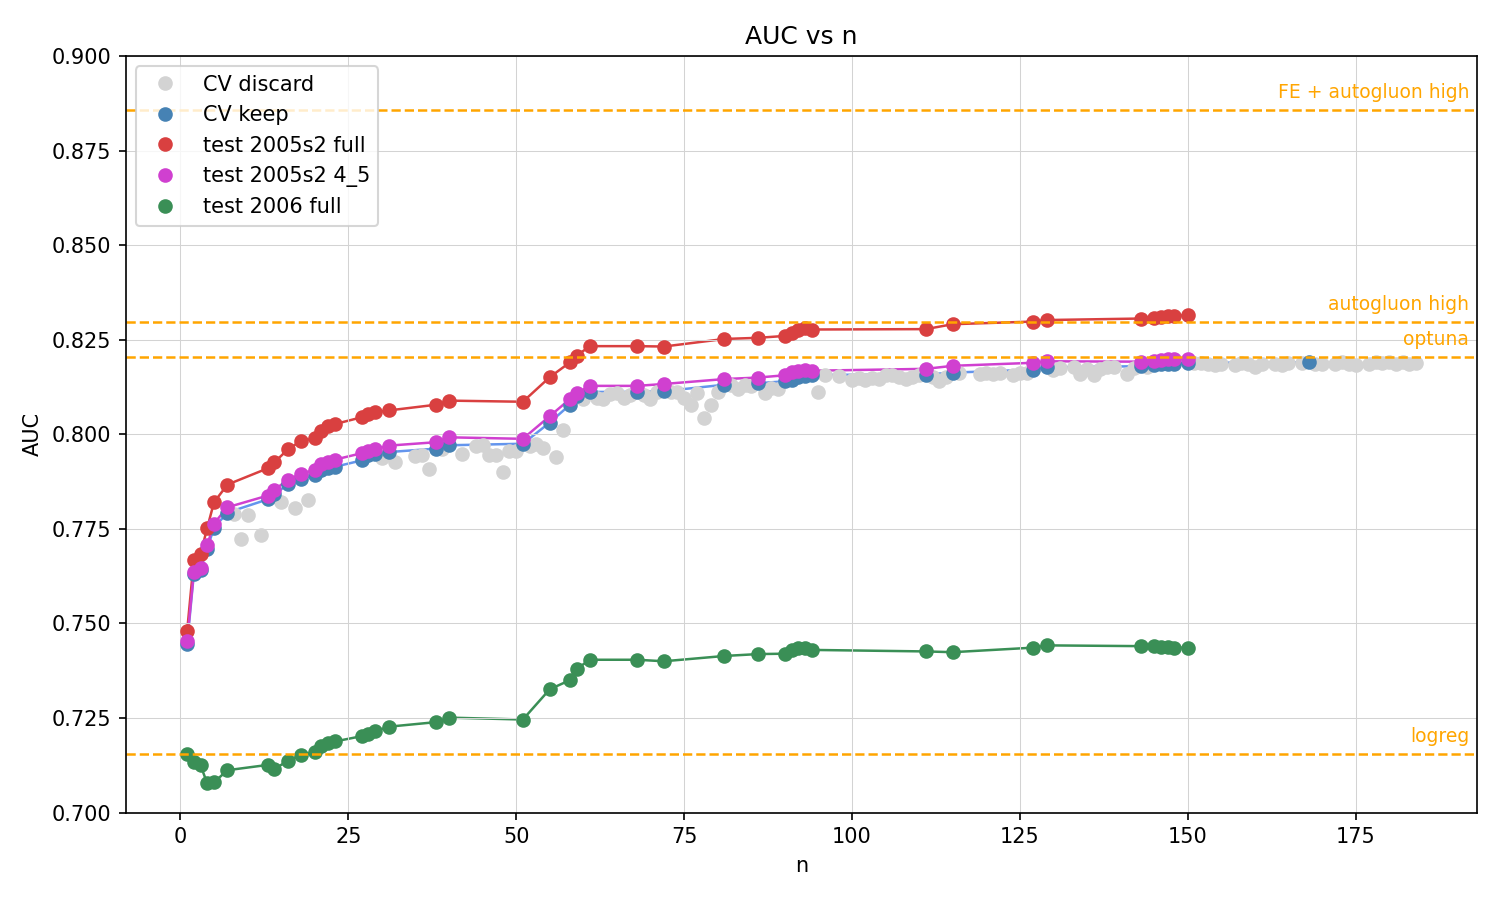
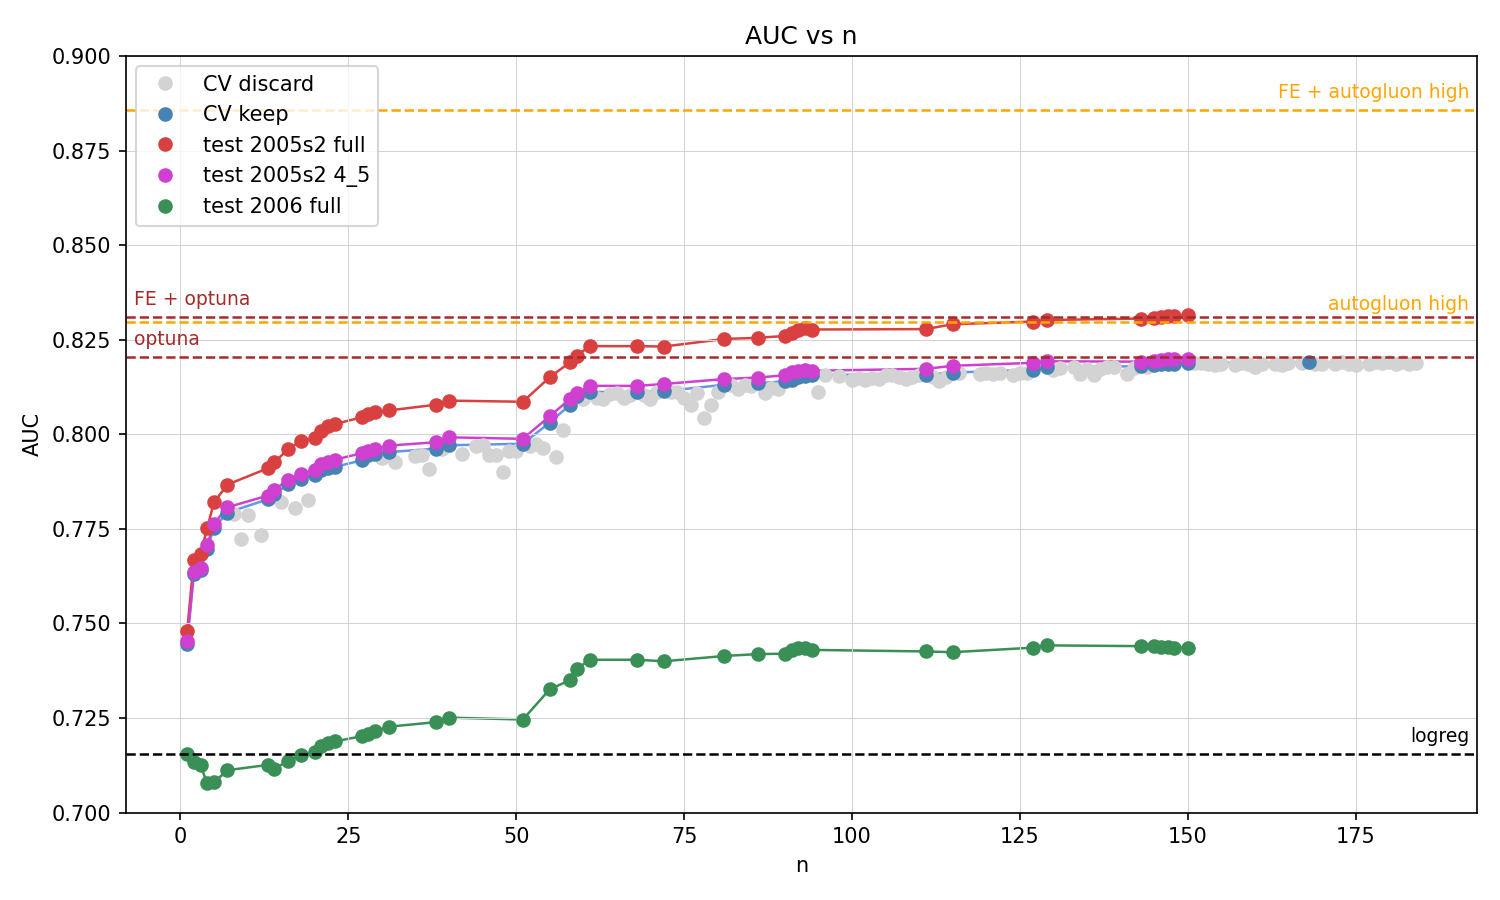
results

Changed region(s): [[0.092, 0.3111, 0.1533, 0.4044], [0.92, 0.3422, 0.9813, 0.4044], [0.92, 0.8089, 0.9813, 0.84]]

diff --git a/analysis/a06-optuna/train-op-FE.py b/analysis/a06-optuna/train-op-FE.py
@@ -1,0 +1,110 @@
+# pip install optuna optuna-integration[xgboost]
+
+import time
+import warnings
+import optuna
+import pandas as pd
+import xgboost as xgb
+from pathlib import Path
+from optuna.integration import XGBoostPruningCallback
+from sklearn.metrics import roc_auc_score
+from sklearn.model_selection import StratifiedKFold
+import numpy as np
+
+
+data_dir = Path(__file__).parent / "../../data-cache"
+train = pd.read_csv(f"{data_dir}/2005-slice1-100k.csv")
+
+cat_cols = ["Month", "DayofMonth", "DayOfWeek", "UniqueCarrier", "Origin", "Dest"]
+num_cols = ["DepTime", "Distance"]
+target   = "dep_delayed_15min"
+
+
+cat_levels = {col: sorted(train[col].unique()) for col in cat_cols}
+
+def prepare(df):
+    X = df[num_cols + cat_cols].copy()
+    # Convert HHMM to minutes since midnight
+    X["DepMinutes"] = (df["DepTime"] // 100) * 60 + (df["DepTime"] % 100)
+    X["DepMinuteOfHour"] = df["DepTime"] % 100
+    X["DepTime_sin"] = np.sin(2 * np.pi * X["DepMinutes"] / 1440)
+    X["DepTime_cos"] = np.cos(2 * np.pi * X["DepMinutes"] / 1440)
+    X["LogDistance"] = np.log1p(df["Distance"])
+    X["DepHour"] = pd.Categorical((df["DepTime"] // 100).clip(0, 23))
+    X["DistBin"] = pd.Categorical(pd.cut(df["Distance"], bins=[0, 300, 700, 1500, 5000], labels=["short", "medium", "long", "xlong"]))
+    X["DepTimeFloat"] = df["DepTime"] / 100.0
+    for col in cat_cols:
+        X[col] = pd.Categorical(
+            X[col].where(X[col].isin(cat_levels[col])),
+            categories=cat_levels[col],
+        )
+    y = (df[target] == "Y").astype(int).to_numpy()
+    return X, y
+
+
+X_train, y_train = prepare(train)
+
+
+cv = StratifiedKFold(n_splits=5, shuffle=True, random_state=42)
+
+def objective(trial):
+    params = {
+        "n_estimators":      trial.suggest_int("n_estimators", 100, 1500),
+        "max_depth":         trial.suggest_int("max_depth", 5, 25),
+        "learning_rate":     trial.suggest_float("learning_rate", 1e-3, 0.3, log=True),
+        "subsample":         trial.suggest_float("subsample", 0.5, 1.0),
+        "colsample_bytree":  trial.suggest_float("colsample_bytree", 0.4, 1.0),
+        "min_child_weight":  trial.suggest_int("min_child_weight", 1, 10),
+        "gamma":             trial.suggest_float("gamma", 0.0, 0.15),
+        "reg_alpha":         trial.suggest_float("reg_alpha", 1e-8, 1.0, log=True),
+        "reg_lambda":        trial.suggest_float("reg_lambda", 1e-8, 1.0, log=True),
+        "max_bin":           trial.suggest_categorical("max_bin", [128, 256, 512, 1024, 2048, 4096]),
+        "tree_method":       "hist",
+        "enable_categorical": True,
+        "random_state": 42,
+        "n_jobs": -1,
+    }
+    scores = []
+    for fold, (idx_tr, idx_val) in enumerate(cv.split(X_train, y_train)):
+        X_tr, X_val = X_train.iloc[idx_tr], X_train.iloc[idx_val]
+        y_tr, y_val = y_train[idx_tr], y_train[idx_val]
+        m = xgb.XGBClassifier(**params, eval_metric="auc",
+                               callbacks=[XGBoostPruningCallback(trial, "validation_0-auc")])
+        with warnings.catch_warnings():
+            warnings.filterwarnings("ignore", message="The reported value is ignored", category=UserWarning)
+            m.fit(X_tr, y_tr, eval_set=[(X_val, y_val)], verbose=False)
+        scores.append(roc_auc_score(y_val, m.predict_proba(X_val)[:, 1]))
+        trial.report(sum(scores) / len(scores), fold)
+        if trial.should_prune():
+            raise optuna.TrialPruned()
+    return sum(scores) / len(scores)
+
+t0 = time.time()
+study = optuna.create_study(
+    direction="maximize",
+    sampler=optuna.samplers.TPESampler(seed=123),
+    pruner=optuna.pruners.MedianPruner(n_warmup_steps = 100),  ## pruning only after 100 steps
+)
+study.optimize(objective, n_trials = 100, show_progress_bar=True)   ## n_trials = number of HPO iterations
+print(f"Optuna time: {time.time() - t0:.1f}s")
+print(f"Best CV AUC: {study.best_value:.4f}")
+print(f"Best params: {study.best_params}")
+
+best_params = study.best_params | {"enable_categorical": True, "random_state": 42, "n_jobs": -1}
+t0 = time.time()
+model = xgb.XGBClassifier(**best_params)
+model.fit(X_train, y_train)
+print(f"Final model (using all the data) training time: {time.time() - t0:.1f}s")
+
+
+
+test = pd.read_csv(f"{data_dir}/2005-slice2-1m.csv")
+X_test, y_test = prepare(test)
+
+t0 = time.time()
+y_prob = model.predict_proba(X_test)[:, 1]
+test_auc = roc_auc_score(y_test, y_prob)
+print(f"Test time: {time.time() - t0:.1f}s")
+print(f"Test AUC: {test_auc:.4f}")
+
+

diff --git a/analysis/a06-optuna/plot_auc_history.py b/analysis/a06-optuna/plot_auc_history.py
@@ -25,22 +25,26 @@ plt.ylabel("AUC")
 plt.ylim(ymin=0.70, ymax=0.90)
 plt.title("AUC vs n")
 plt.grid(True, color="lightgrey", linewidth=0.5)
+plt.axhline(0.7155, color="black", linewidth=1.2, linestyle="--")
+plt.annotate("logreg", xy=(1, 0.7155), xycoords=("axes fraction", "data"),
+             xytext=(-4, 4), textcoords="offset points",
+             ha="right", va="bottom", color="black", fontsize=9)    
 plt.axhline(0.8296, color="orange", linewidth=1.2, linestyle="--")
 plt.annotate("autogluon high", xy=(1, 0.8296), xycoords=("axes fraction", "data"),
              xytext=(-4, 4), textcoords="offset points",
              ha="right", va="bottom", color="orange", fontsize=9)
-plt.axhline(0.7155, color="orange", linewidth=1.2, linestyle="--")
-plt.annotate("logreg", xy=(1, 0.7155), xycoords=("axes fraction", "data"),
-             xytext=(-4, 4), textcoords="offset points",
-             ha="right", va="bottom", color="orange", fontsize=9)    
 plt.axhline(0.8857, color="orange", linewidth=1.2, linestyle="--")
 plt.annotate("FE + autogluon high", xy=(1, 0.8857), xycoords=("axes fraction", "data"),
              xytext=(-4, 4), textcoords="offset points",
              ha="right", va="bottom", color="orange", fontsize=9)      
-plt.axhline(0.8203, color="orange", linewidth=1.2, linestyle="--")
-plt.annotate("optuna", xy=(1, 0.8203), xycoords=("axes fraction", "data"),
-             xytext=(-4, 4), textcoords="offset points",
-             ha="right", va="bottom", color="orange", fontsize=9)                                  
+plt.axhline(0.8203, color="brown", linewidth=1.2, linestyle="--")
+plt.annotate("optuna", xy=(0, 0.8203), xycoords=("axes fraction", "data"),
+             xytext=(4, 4), textcoords="offset points",
+             ha="left", va="bottom", color="brown", fontsize=9)                                  
+plt.axhline(0.8309, color="brown", linewidth=1.2, linestyle="--")
+plt.annotate("FE + optuna", xy=(0, 0.8309), xycoords=("axes fraction", "data"),
+             xytext=(4, 4), textcoords="offset points",
+             ha="left", va="bottom", color="brown", fontsize=9)  
 plt.legend()
 plt.tight_layout()
 plt.savefig(Path(__file__).parent / "auc_history.png", dpi=150)